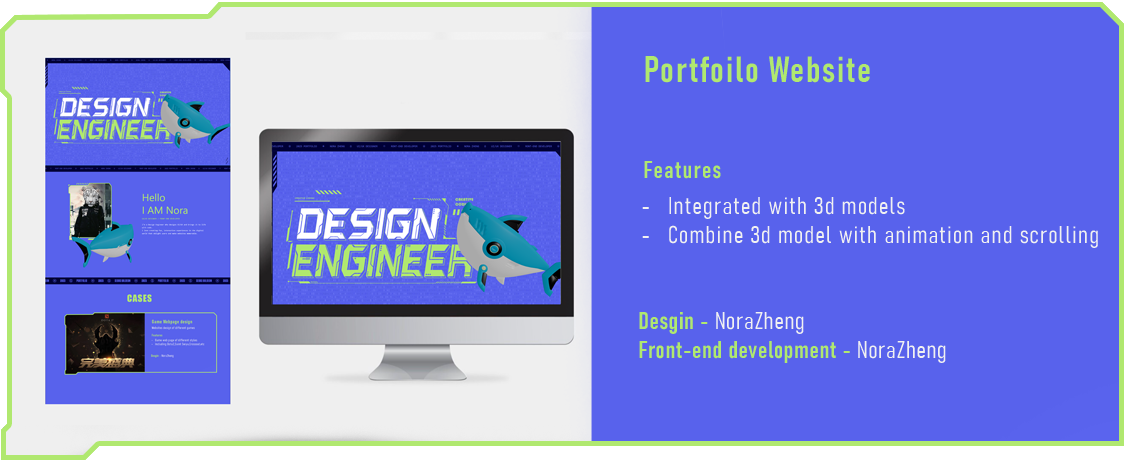
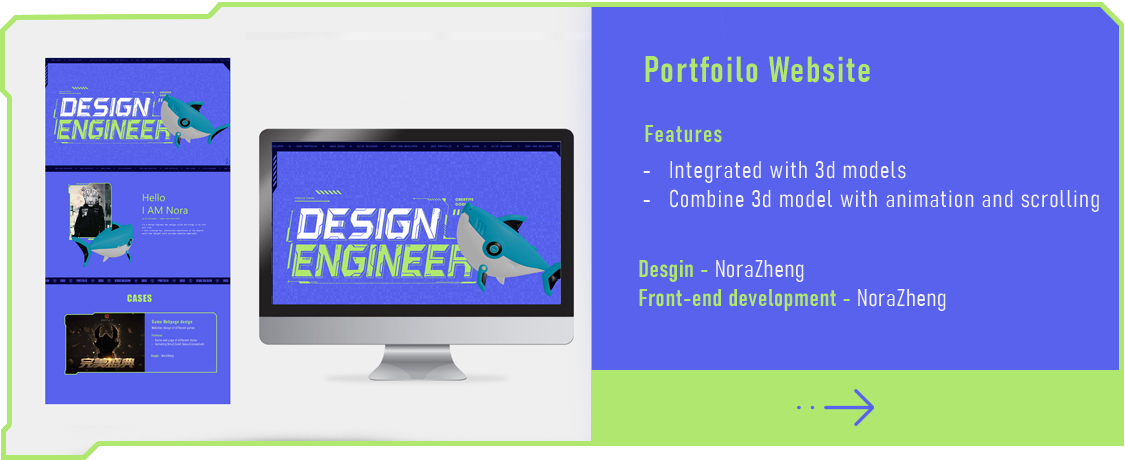
update

Changed region(s): [[0.4978, 0.6391, 0.9956, 0.9739], [0.56, 0.3348, 0.9956, 0.6087], [0.56, 0.2739, 0.6533, 0.3043]]

diff --git a/src/components/page.jsx b/src/components/page.jsx
@@ -16,6 +16,11 @@ gsap.registerPlugin(ScrollTrigger, ScrollSmoother, SplitText);
 
 export default function Page() {
 
+  document.querySelectorAll('a').forEach(link => {
+  link.style.cursor = 'pointer';
+});
+
+
  const [copied, setCopied] = useState(false);
 
   const handleCopy = () => {
@@ -132,6 +137,7 @@ export default function Page() {
   return (
     <>
       {/* 3D Canvas */}
+      
       <Mycanvas />
 
       {/* 滚动内容 */}
@@ -193,9 +199,9 @@ export default function Page() {
             <div className="bg-[#6074f4] box-content flex-1 flex flex-col relative mx-auto overflow-hidden ">
               <div className='text-8xl text-[#b0e86f flex justify-center text-center w-[100vw] text-[#b0e86f] pt-[5%] pb-[2%] bebas-neue-regular'>CASES</div>
              <div className="flex flex-col mx-auto stalkimgs">
-                <a href='https://sharingcountry.vercel.app/' target='_blank'><img src="works2.png" className="stack-image" alt="work2" /></a>
-                <a href='https://www.behance.net/zhengnora' target='_blank'><img src="works3.png" className="stack-image" alt="work3" /></a>
-                <a href='https://norazhengportfolio2025.vercel.app/ ' target='_blank'><img src="works1.png" className="stack-image" alt="work1" /></a>
+                <a href='https://sharingcountry.vercel.app/' className='cursor-pointer' target='_blank'><img src="works2.png" className="stack-image pointer-events-none" alt="work2" /></a>
+                <a href='https://www.behance.net/zhengnora' className='cursor-pointer' target='_blank'><img src="works3.png" className="stack-image pointer-events-none" alt="work3" /></a>
+                <a href='https://norazhengportfolio2025.vercel.app/ ' className='cursor-pointer' target='_blank'><img src="works1.png" className="stack-image pointer-events-none" alt="work1" /></a>
               </div>
 
             </div>
@@ -206,7 +212,8 @@ export default function Page() {
             <MarqueeDivRight />
       <div className="bg-[#5862ec] box-content flex-1 flex flex-col justify-center items-center text-center font-mono">
             <div className='flex justify-center items-center '>
-              <a href='https://www.linkedin.com/in/nora-zheng-459546312/' target='_blank' className='flex justify-center items-center w-[10vh] h-[7vh]' ><img src='linkin.png' alt='linkin' className='w-[5vh] mx-auto'/></a>
+              <a href='https://www.linkedin.com/in/nora-zheng-459546312/' target='_blank' style={{ cursor: 'pointer' }} className='flex justify-center items-center w-[3vw] h-[7vh] mr-[1vw] !cursor-pointer' ><img src='linkin.png' alt='linkin' className='w-[5vh] mx-auto !cursor-pointer'/></a>
+              <a href='https://www.behance.net/zhengnora' target='_blank' className='flex justify-center items-center w-[3vw] h-[7vh] mr-[1vw] !cursor-pointer z-[50]' ><img src='behance.png' alt='linkin' className='w-[5vh] mx-auto !cursor-pointer'/></a>
               <div
                 onClick={handleCopy}
                 className="text-[#b0e86f] border-[1px] border-[#b0e86f] w-[45vh] h-[7vh] flex justify-center items-center my-[4vh] cursor-pointer hover:bg-[#4e54d1] transition-colors"

diff --git a/src/App.css b/src/App.css
@@ -11,7 +11,12 @@
 
 .hidden-canvas {
   z-index: -1 !important;
-  pointer-events: none !important;
+ 
+}
+
+/* 强制确保所有具有 href 属性的元素都显示手型光标 */
+a[href] {
+  cursor: pointer !important; /* 使用 !important 确保优先级最高 */
 }
 
 

diff --git a/src/components/Mycanvas.jsx b/src/components/Mycanvas.jsx
@@ -38,7 +38,7 @@ useGSAP(() => {
   return (
     <>
     
-      <div className="canvasIndex" style={{
+      <div className="canvasIndex " style={{
         width: "100vw",
         height: "100vh",
         position: 'absolute',
